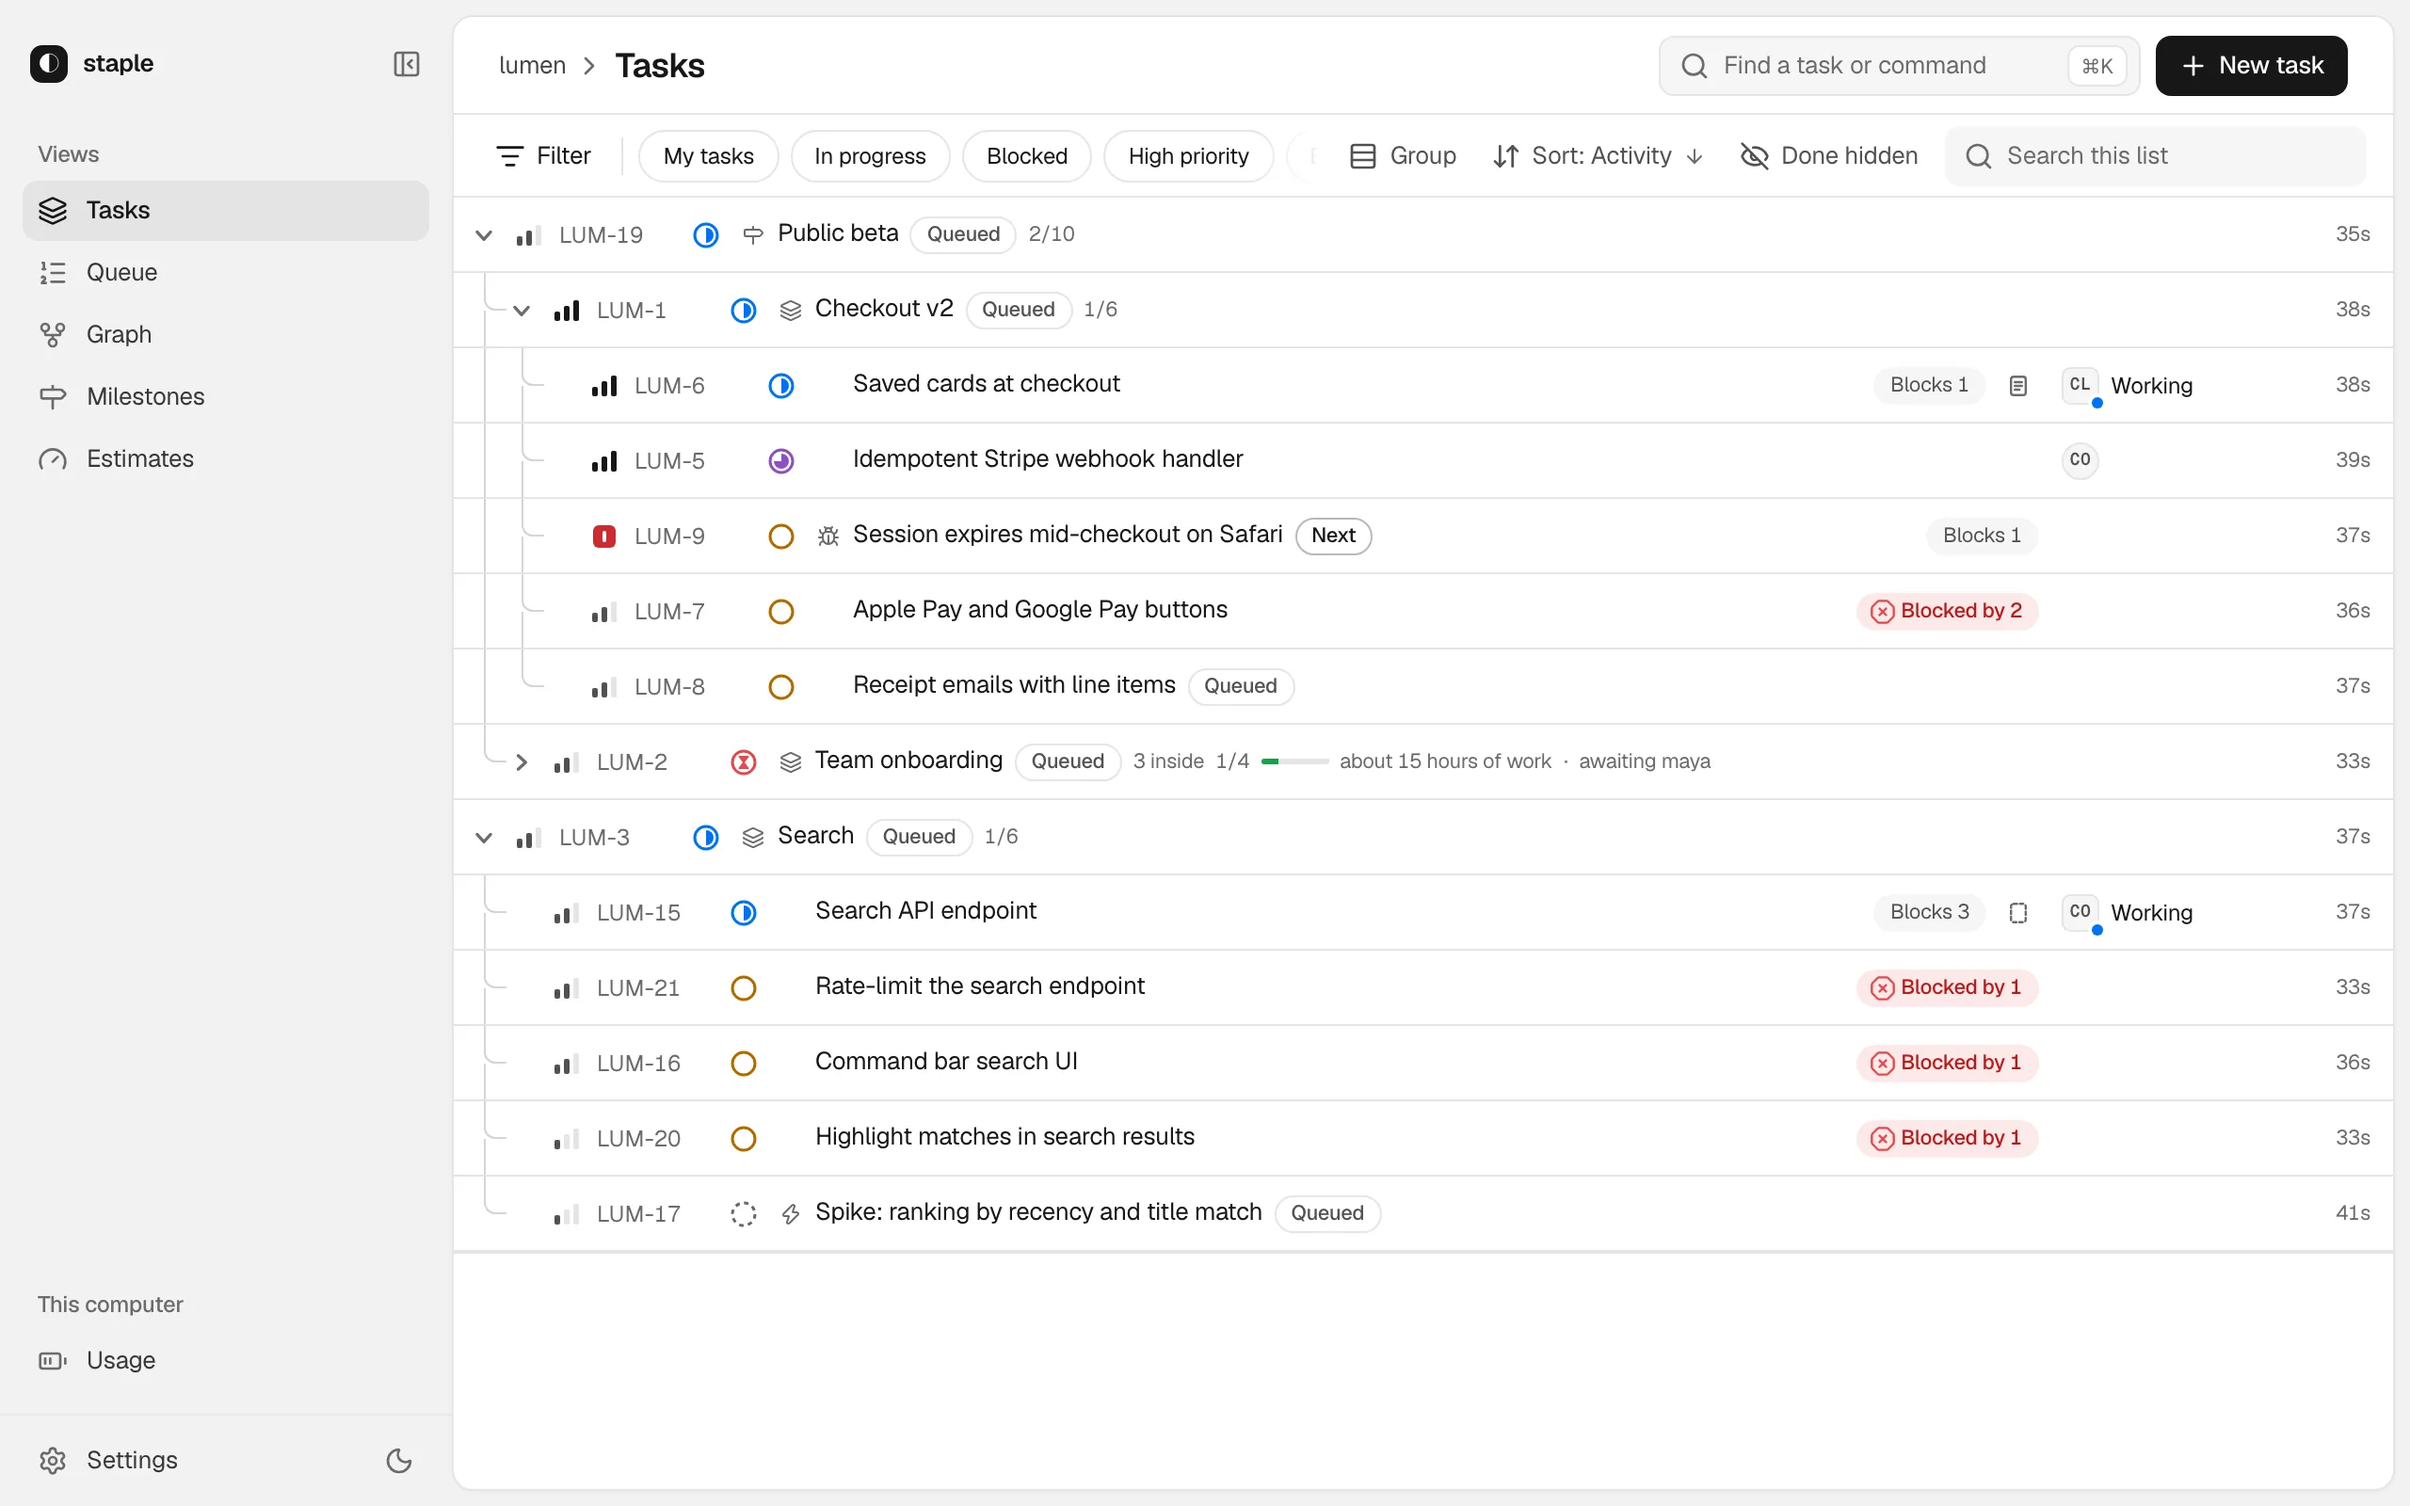
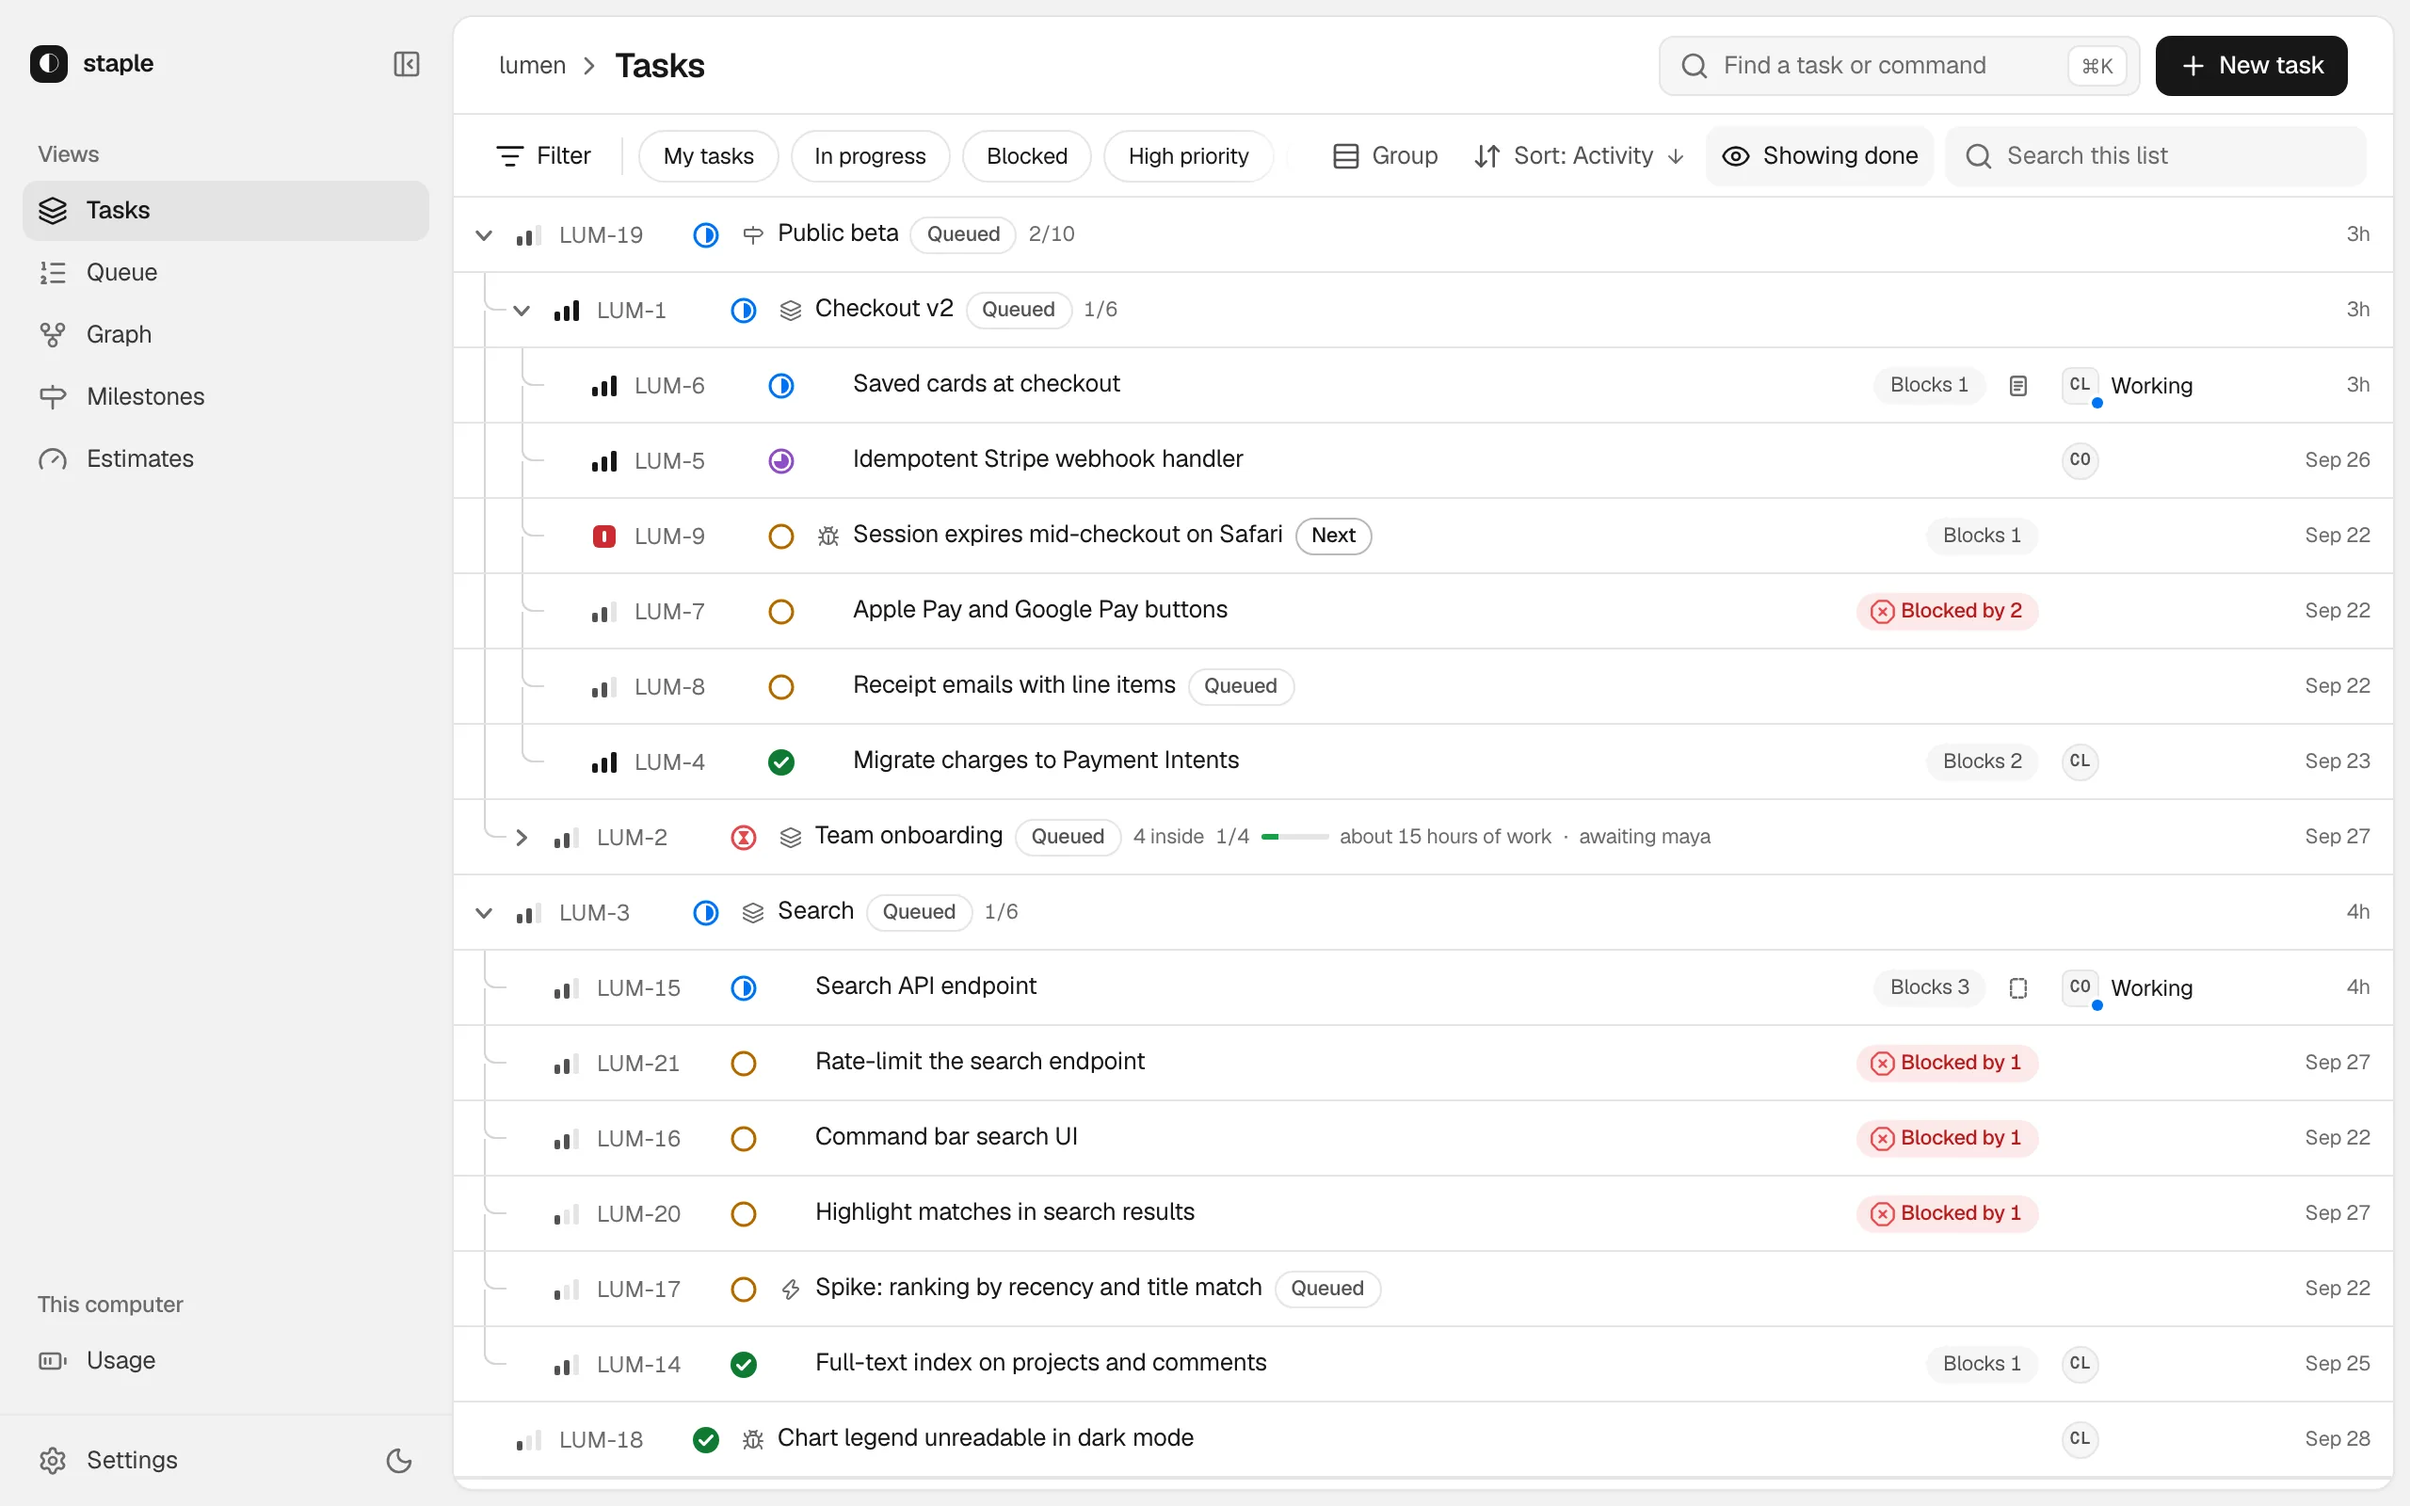
fix(site): landing claims match the source, copy button focus and fallback, aged demo data
The gate line says approval releases the tasks, the network figure covers
live usage checks, the stop figure counts reasons. The walkthrough and run
sessions are verbatim from a copy of the screenshot workspace. Screenshots
are recaptured from demo data with a week of history, phones get a closer
crop, and the copy button shows a visible focus ring on the accent and
selects the command when the clipboard is unavailable.

diff --git a/site/src/pages/index.tsx b/site/src/pages/index.tsx
@@ -20,8 +20,8 @@ const DESCRIPTION =
 const FACTS: {value: string; label: ReactNode}[] = [
   {value: '65', label: 'MCP tools, each calling the same store method as the CLI'},
   {value: '6', label: 'views in the web UI, from Tasks to Usage'},
-  {value: '9', label: 'stop rules an autopilot run checks after every ticket'},
-  {value: '0', label: 'network calls until you connect cloud sync'},
+  {value: '9', label: 'reasons an autopilot run stops, each named in its answer'},
+  {value: '0', label: 'network calls until you opt in to sync or live usage checks'},
 ];
 
 type FeatureProps = {
@@ -74,9 +74,9 @@ const WALKTHROUGH = [
   'commented.',
   '$ staple done LUM-9 -m "Fixed and covered by an e2e test on WebKit"',
   '●!! LUM-9     done        Session expires mid-checkout on Safari @claude · bug',
-  '# a ticket another agent holds is refused, with what to do instead',
-  '$ staple start LUM-8',
-  'error(conflict): Checkout refused: status is "in_progress" (held by codex), expected one of todo, backlog, blocked. Pick a different task — do not retry.',
+  '# another agent asking for a held ticket is refused, with what to do instead',
+  '$ staple start LUM-6 --agent codex',
+  'error(conflict): Checkout refused: status is "in_progress" (held by claude), expected one of todo, backlog, blocked. Pick a different task — do not retry.',
 ];
 
 const STEPS: {command: string; tool: string; text: string}[] = [
@@ -90,11 +90,17 @@ const STEPS: {command: string; tool: string; text: string}[] = [
 const RUN = [
   '# one agent, one scope, a budget',
   '$ staple run start --scope LUM-3 --max-tickets 3 --until 4h',
+  'run 1565a768-8228-472e-9c06-4511b90f21bf  active  codex over issue LUM-3',
+  '  started 2026-09-29T07:06:45.766Z · 0/3 tickets, until 2026-09-29T11:06:45.766Z · 0 done, 0 failed, 0 open',
   '$ staple run continue',
   'take     LUM-15 Search API endpoint',
   '  LUM-15 is in scope and already held by you: finish it before taking more.',
   '# after each ticket, ask again: take, wait or stop',
   '$ staple run stop -m "enough for today"',
+  'run 1565a768-8228-472e-9c06-4511b90f21bf  stopped  codex over issue LUM-3',
+  '  started 2026-09-29T07:06:45.766Z · 1/3 tickets, until 2026-09-29T11:06:45.766Z · 0 done, 1 failed, 0 open',
+  '    1  LUM-15    failed  stopped_by_human: enough for today',
+  '  ended 2026-09-29T07:06:46.239Z: stopped_by_human by codex (enough for today)',
   '$ staple run continue',
   'stop     no_run: codex has no active or paused run (staple run start --scope <queue|ref>).',
 ];
@@ -126,7 +132,7 @@ export default function Home(): ReactNode {
             name="tasks"
             focus={{x: 18.5, y: 0}}
             priority
-            alt="The Tasks view of the staple web UI: epics for checkout, onboarding and search with their tasks, two of them being worked on by agents and three waiting on other work."
+            alt="The Tasks view of the staple web UI: epics for checkout, onboarding and search with their tasks, two being worked on by claude and codex, four waiting on other work and three done."
           />
         </section>
 
@@ -177,8 +183,8 @@ export default function Home(): ReactNode {
                 take.
               </>,
               <>
-                A gate parks a parent on a person. Its tasks answer <code>gated</code> until you approve or request
-                changes.
+                A gate parks a parent on a person. Its tasks answer <code>gated</code> until you approve; a request for
+                changes keeps them parked.
               </>,
             ]}
             link={{to: '/docs/queue', label: 'The pickup queue'}}
@@ -293,8 +299,8 @@ export default function Home(): ReactNode {
               <Eyebrow>The agent loop</Eyebrow>
               <Heading>How an agent works a ticket.</Heading>
               <Lead>
-                Five commands, or the five MCP tools beside them. The session on the right ran against the demo
-                workspace in the screenshots.
+                Five commands, or the five MCP tools beside them. This session ran against a copy of the demo workspace
+                in the screenshots.
               </Lead>
               <ol className={styles.steps}>
                 {STEPS.map((step) => (

diff --git a/site/src/components/CopyCommand/index.tsx b/site/src/components/CopyCommand/index.tsx
@@ -41,34 +41,42 @@ function CheckIcon(): ReactNode {
 
 // A shell command with a copy button: the call to action when the action is a command.
 export default function CopyCommand({command, variant = 'primary', className}: Props): ReactNode {
-  const [copied, setCopied] = useState(false);
+  const [status, setStatus] = useState<'idle' | 'copied' | 'manual'>('idle');
+  const text = useRef<HTMLElement>(null);
   const timer = useRef<ReturnType<typeof setTimeout>>(undefined);
   useEffect(() => () => clearTimeout(timer.current), []);
 
   async function copy(): Promise<void> {
+    clearTimeout(timer.current);
     try {
       await navigator.clipboard.writeText(command);
+      setStatus('copied');
+      timer.current = setTimeout(() => setStatus('idle'), 1600);
     } catch {
-      return;
+      // No clipboard access (an insecure origin, a denied permission): select the
+      // command so the keyboard shortcut copies it, and say so.
+      if (text.current) window.getSelection()?.selectAllChildren(text.current);
+      setStatus('manual');
     }
-    setCopied(true);
-    clearTimeout(timer.current);
-    timer.current = setTimeout(() => setCopied(false), 1600);
   }
 
   return (
     <div className={clsx(styles.command, styles[variant], className)}>
-      <code className={styles.text}>
+      <code className={styles.text} ref={text}>
         <span className={styles.prompt} aria-hidden="true">
           $
         </span>
         {command}
       </code>
       <button type="button" className={styles.copy} onClick={copy} aria-label={`Copy ${command}`}>
-        {copied ? <CheckIcon /> : <CopyIcon />}
+        {status === 'copied' ? <CheckIcon /> : <CopyIcon />}
       </button>
       <span className={styles.status} role="status">
-        {copied ? 'Copied to the clipboard' : ''}
+        {status === 'copied'
+          ? 'Copied to the clipboard'
+          : status === 'manual'
+            ? 'Selected: press Ctrl+C or ⌘C to copy'
+            : ''}
       </span>
     </div>
   );

diff --git a/site/src/components/CopyCommand/styles.module.css b/site/src/components/CopyCommand/styles.module.css
@@ -63,11 +63,6 @@
   background: var(--st-bg-muted);
 }
 
-.copy:focus-visible {
-  outline: var(--st-focus-ring) solid var(--st-accent-ring);
-  outline-offset: 2px;
-}
-
 /* Announced to screen readers, not shown. */
 .status {
   position: absolute;
@@ -76,4 +71,10 @@
   overflow: hidden;
   clip-path: inset(50%);
   white-space: nowrap;
+}
+
+/* The global accent ring would be green on green here: use the text colour instead. */
+.primary .copy:focus-visible {
+  outline-color: var(--st-on-accent);
+  outline-offset: calc(-1 * var(--st-focus-ring));
 }

diff --git a/site/src/components/Screenshot/styles.module.css b/site/src/components/Screenshot/styles.module.css
@@ -44,7 +44,7 @@
   }
 
   .image {
-    width: 220%;
+    width: 250%;
     max-width: none;
     transform: translate(var(--focus-x), var(--focus-y));
   }
